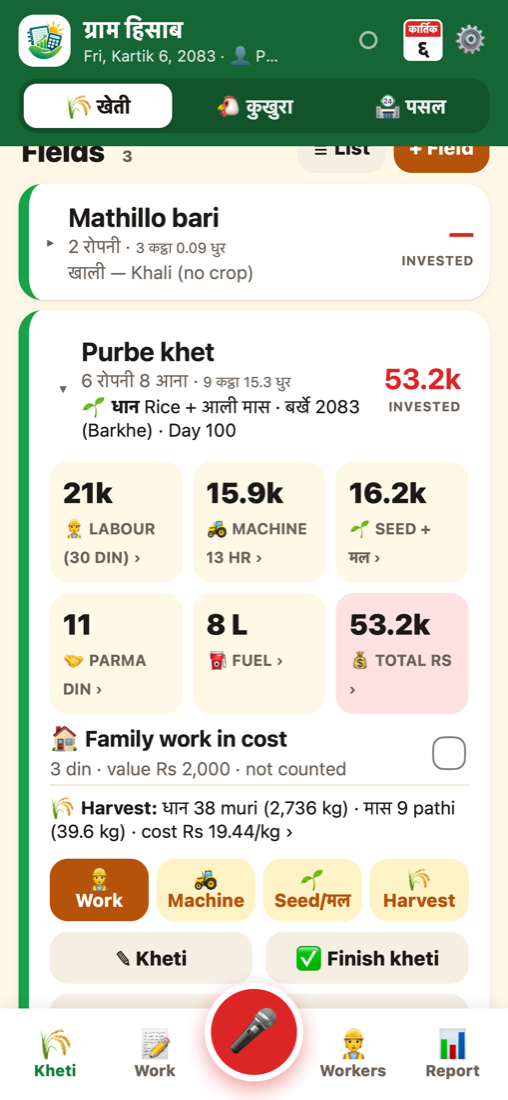
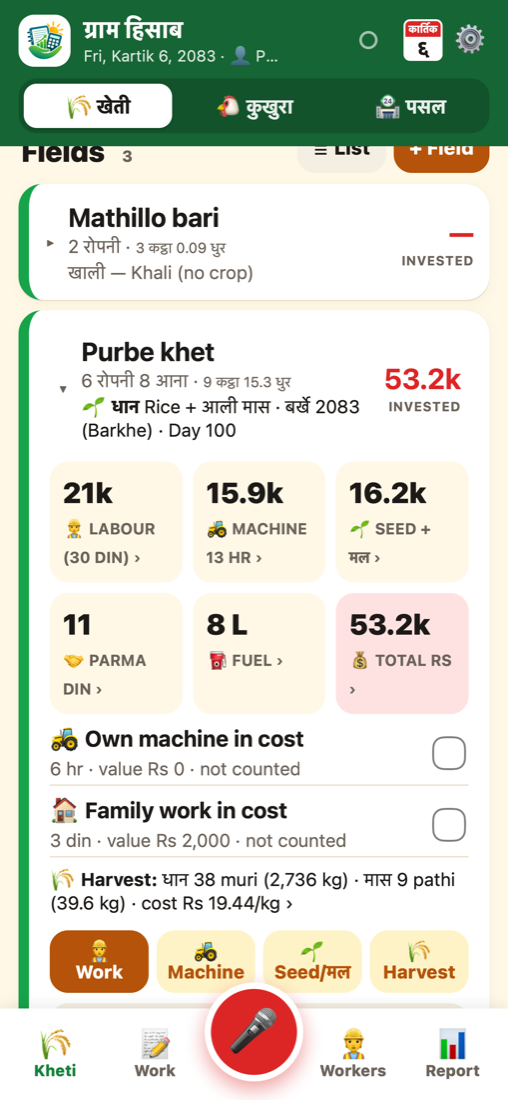
Own machines: rate per hour (remembered), value per use, per-kheti switch to count it in crop cost; sheet tabs too

Changed region(s): [[0.0886, 0.6491, 0.9449, 0.9273], [0.9154, 0.0309, 0.9449, 0.0618]]

diff --git a/assets/kheti-ui.js b/assets/kheti-ui.js
@@ -45,8 +45,10 @@ function kToggle(id) {
 }
 // 🏠 switch: count the household's own work (at normal rates) in this crop's cost, or not
 function famToggleHtml(k) {
-  if (!workers().some(w => w.own) && !k.family) return '';
-  return `<label class="switch kfam" style="padding:8px 0 2px"><span><b>🏠 Family work in cost</b><br><span class="small muted">${nfmt(k.familyFull + k.familyHalf * 0.5)} din · value ${money(k.family)} · ${k.includeFamily ? 'counted in total' : 'not counted'}</span></span>
+  const mach = k.ownMachine || k.ownMachineHours ? `<label class="switch kfam" style="padding:8px 0 2px"><span><b>🚜 Own machine in cost</b><br><span class="small muted">${nfmt(k.ownMachineHours)} hr · value ${money(k.ownMachine)} · ${k.includeOwnMachine ? 'counted in total' : 'not counted'}</span></span>
+    <input type="checkbox" data-act="kMachToggle" data-id="${k.kheti.id}" ${k.includeOwnMachine ? 'checked' : ''}></label>` : '';
+  if (!workers().some(w => w.own) && !k.family) return mach;
+  return mach + `<label class="switch kfam" style="padding:8px 0 2px"><span><b>🏠 Family work in cost</b><br><span class="small muted">${nfmt(k.familyFull + k.familyHalf * 0.5)} din · value ${money(k.family)} · ${k.includeFamily ? 'counted in total' : 'not counted'}</span></span>
     <input type="checkbox" data-act="kFamToggle" data-id="${k.kheti.id}" ${k.includeFamily ? 'checked' : ''}></label>`;
 }
 function fieldCard(f, S) {
@@ -68,7 +70,7 @@ function fieldCard(f, S) {
         ${st('input', shortMoney(k.seed + k.fert), '🌱 Seed + मल')}
         ${st('parma', nfmt(k.parmaDays), '🤝 Parma din')}
         ${st('fuel', nfmt(round(k.petrol + k.diesel, 1)) + ' L', '⛽ Fuel')}
-        ${st('all', shortMoney(k.total), k.includeFamily && k.family ? '💰 Total + 🏠' : '💰 Total Rs', 'var(--red-l)')}
+        ${st('all', shortMoney(k.total), '💰 Total' + (k.includeFamily && k.family ? ' + 🏠' : '') + (k.includeOwnMachine && k.ownMachine ? ' + 🚜' : '') + (k.total === k.cash ? ' Rs' : ''), 'var(--red-l)')}
       </div>
       ${famToggleHtml(k)}
       ${harvestText(k) ? `<div class="small" style="margin-top:8px" data-act="kEntries" data-id="${cur.id}" data-v="harvest">🌾 <b>Harvest:</b> ${esc(harvestText(k))}${k.costPerKg ? ` · cost ${money(k.costPerKg)}/kg` : ''} ›</div>` : ''}
@@ -253,6 +255,7 @@ function saveWorkForm() {
 
 function openMachineForm(rec, khetiId) {
   kDraft = Object.assign({ kind: 'machine', khetiId: khetiId || (activeKhetis()[0] || {}).id || '', date: today(), type: 'hiredTractor', hours: '', ratePerHour: '', hireAmount: '', fuel: '', litres: '', fuelCost: '', note: '' }, rec || {});
+  if (!(MACHINES[kDraft.type] || {}).hired && !kDraft.ratePerHour) kDraft.ratePerHour = ownMachineRate(kDraft.type) || '';
   renderMachineForm();
 }
 function renderMachineForm() {
@@ -261,14 +264,20 @@ function renderMachineForm() {
     ${khetiChips(d.khetiId)}
     <div class="field"><label>Date (नेपाली)</label>${bsDateHtml('kmach', d.date)}</div>
     <div class="field"><label>Machine</label><div class="chips">${Object.keys(MACHINES).map(k => kChip('kfMach', k, d.type === k, MACHINES[k].icon + ' ' + MACHINES[k].en)).join('')}</div></div>
-    <div class="grid2">${kNum('hours', 'Hours', d.hours)}${m.hired ? kNum('ratePerHour', 'Rate per hour Rs', d.ratePerHour) : '<div></div>'}</div>
-    ${m.hired ? kNum('hireAmount', 'Hire paid Rs (auto = hours × rate)', d.hireAmount, 'auto') : ''}
+    <div class="grid2">${kNum('hours', 'Hours', d.hours)}${kNum('ratePerHour', m.hired ? 'Rate per hour Rs' : 'Own machine rate / hour Rs', d.ratePerHour)}</div>
+    ${m.hired ? kNum('hireAmount', 'Hire paid Rs (auto = hours × rate)', d.hireAmount, 'auto')
+      : `<div class="hint" id="kmOwnHint" style="margin:-6px 0 12px">${esc(ownMachineHint())}</div>`}
     <div class="field"><label>Fuel</label><div class="chips">${kChip('kfFuel', '', !d.fuel, 'None')}${kChip('kfFuel', 'petrol', d.fuel === 'petrol', '⛽ Petrol')}${kChip('kfFuel', 'diesel', d.fuel === 'diesel', '🛢 Diesel')}</div></div>
     ${d.fuel ? `<div class="grid2">${kNum('litres', 'Litres', d.litres)}${kNum('fuelCost', 'Fuel cost Rs', d.fuelCost)}</div>` : ''}
     <div class="field"><label>Note <span class="muted">(optional)</span></label><input data-k="note" value="${esc(d.note || '')}" placeholder="—" autocomplete="off"></div>
     <button class="btn big green" data-act="kSaveMachine">✔ Save</button>
     ${d.id ? `<div style="height:10px"></div><button class="btn big redl" data-act="deleteRec" data-id="${d.id}">🗑 Delete</button>${historyHtml(d.id)}` : ''}
   </div>`);
+}
+function ownMachineHint() {
+  const h = num(($('#kForm [data-k=hours]') || {}).value != null ? $('#kForm [data-k=hours]').value : kDraft.hours) || 0;
+  const r = num(($('#kForm [data-k=ratePerHour]') || {}).value != null ? $('#kForm [data-k=ratePerHour]').value : kDraft.ratePerHour) || 0;
+  return `Own machine value = hours × rate${h && r ? ' = ' + money(h * r) : ''}. It counts in the crop's cost only when the crop's 🚜 Own machine switch is on. Fuel is always counted.`;
 }
 function saveMachineForm() {
   kRead();
@@ -277,11 +286,12 @@ function saveMachineForm() {
   const hours = num(d.hours) || 0, rate = num(d.ratePerHour) || 0;
   const hire = m.hired ? (num(d.hireAmount) != null ? num(d.hireAmount) : round(hours * rate, 2)) : 0;
   const rec = { kind: 'machine', khetiId: k.id, fieldId: k.fieldId, date: d.date || today(), type: d.type, hours, ratePerHour: rate, hireAmount: hire,
-    fuel: d.fuel || '', litres: d.fuel ? num(d.litres) || 0 : 0, fuelCost: d.fuel ? num(d.fuelCost) || 0 : 0, note: String(d.note || '').trim() };
+    ownValue: m.hired ? 0 : round(hours * rate, 2), fuel: d.fuel || '', litres: d.fuel ? num(d.litres) || 0 : 0, fuelCost: d.fuel ? num(d.fuelCost) || 0 : 0, note: String(d.note || '').trim() };
+  if (!m.hired && rate && rate !== ownMachineRate(d.type)) setOwnMachineRate(d.type, rate);   // remembered for next time
   if (!hours && !hire && !rec.litres && !rec.fuelCost) { toast('Type hours, hire or fuel'); return; }
   if (d.id) { rec.id = d.id; rec.createdAt = d.createdAt; }
   put(rec); closeSheet(); render();
-  toast(`Saved ✓ ${m.en} ${hours ? nfmt(hours) + ' hr' : ''} · ${money(hire + rec.fuelCost)}`, d.id ? null : rec.id);
+  toast(`Saved ✓ ${m.en} ${hours ? nfmt(hours) + ' hr' : ''} · ${money(hire + rec.fuelCost)}${rec.ownValue ? ' · own value ' + money(rec.ownValue) : ''}`, d.id ? null : rec.id);
 }
 
 function openInputForm(rec, khetiId) {
@@ -489,7 +499,7 @@ function kItemHtml(r) {
   let ic = '•', t = '', s = '', amt = '';
   const kt = r.khetiId && khetiById(r.khetiId) ? khetiTitle(khetiById(r.khetiId)) : '';
   if (r.kind === 'fwork') { ic = '👷'; t = `${workById(r.workType).ne} · ${(r.workers || []).length + (r.extraFull || 0) + (r.extraHalf || 0)} khetala${(r.parma || []).length ? ' + parma' : ''}`; s = kt; amt = money(fworkAmount(r)); }
-  else if (r.kind === 'machine') { const m = MACHINES[r.type] || {}; ic = m.icon || '🚜'; t = `${m.en || r.type}${r.hours ? ' · ' + nfmt(r.hours) + ' hr' : ''}${r.litres ? ' · ' + nfmt(r.litres) + ' L ' + r.fuel : ''}`; s = kt; amt = money((r.hireAmount || 0) + (r.fuelCost || 0)); }
+  else if (r.kind === 'machine') { const m = MACHINES[r.type] || {}; ic = m.icon || '🚜'; t = `${m.en || r.type}${r.hours ? ' · ' + nfmt(r.hours) + ' hr' : ''}${r.litres ? ' · ' + nfmt(r.litres) + ' L ' + r.fuel : ''}`; s = kt + (machineOwnValue(r) ? ' · own value ' + money(machineOwnValue(r)) : ''); amt = money((r.hireAmount || 0) + (r.fuelCost || 0)); }
   else if (r.kind === 'finput') { ic = r.type === 'seed' ? '🌱' : '🧪'; t = `${r.item}${r.qty ? ' · ' + nfmt(r.qty) + ' ' + r.unit : ''}`; s = kt; amt = money(r.cost); }
   else if (r.kind === 'harvest') { ic = '🌾'; t = `${cropById(r.crop).ne} ${nfmt(r.qty)} ${r.unit} (≈ ${nfmt(round(r.kg || harvestKg(r)))} kg)`; s = kt; }
   else if (r.kind === 'fpay') { ic = '💵'; t = `Paid ${workerLabel(workerById(r.workerId))}`; amt = money(r.amount); }
@@ -509,12 +519,13 @@ function openKhetiEntries(khetiId, key) {
     <div class="summary small">
       <div class="line"><span>👷 Labour (${nfmt(S.labourFull)} full, ${nfmt(S.labourHalf)} half)</span><b>${money(S.labour)}</b></div>
       <div class="line"><span>🤝 Parma</span><b>${nfmt(S.parmaDays)} din</b></div>
-      <div class="line"><span>🚜 Machine hire (${nfmt(S.machineHours)} hr)</span><b>${money(S.machineHire)}</b></div>
+      <div class="line"><span>🚜 Machine hire (${nfmt(S.machineHours - S.ownMachineHours)} hr)</span><b>${money(S.machineHire)}</b></div>
       <div class="line"><span>⛽ Fuel (petrol ${nfmt(S.petrol)} L · diesel ${nfmt(S.diesel)} L)</span><b>${money(S.fuelCost)}</b></div>
       <div class="line"><span>🌱 Seed</span><b>${money(S.seed)}</b></div>
       <div class="line"><span>🧪 Fertilizer</span><b>${money(S.fert)}</b></div>
       ${S.family || workers().some(w => w.own) ? `<div class="line"><span>🏠 Family work (${nfmt(S.familyFull)} full, ${nfmt(S.familyHalf)} half)${S.includeFamily ? '' : ' <span class="muted">— not counted</span>'}</span><b style="${S.includeFamily ? '' : 'color:var(--muted);text-decoration:line-through'}">${money(S.family)}</b></div>` : ''}
-      <div class="line"><span><b>Total investment</b>${S.includeFamily && S.family ? '<br><span class="muted">money spent ' + money(S.cash) + ' + family work ' + money(S.family) + '</span>' : ''}</span><b style="font-size:20px;color:var(--red)">${money(S.total)}</b></div>
+      ${S.ownMachine || S.ownMachineHours ? `<div class="line"><span>🚜 Own machine (${nfmt(S.ownMachineHours)} hr)${S.includeOwnMachine ? '' : ' <span class="muted">— not counted</span>'}</span><b style="${S.includeOwnMachine ? '' : 'color:var(--muted);text-decoration:line-through'}">${money(S.ownMachine)}</b></div>` : ''}
+      <div class="line"><span><b>Total investment</b>${S.total !== S.cash ? '<br><span class="muted">money spent ' + money(S.cash) + (S.includeFamily && S.family ? ' + family work ' + money(S.family) : '') + (S.includeOwnMachine && S.ownMachine ? ' + own machine ' + money(S.ownMachine) : '') + '</span>' : ''}</span><b style="font-size:20px;color:var(--red)">${money(S.total)}</b></div>
       ${harvestText(S) ? `<div class="line"><span style="white-space:nowrap">🌾 Harvest</span><b style="text-align:right">${esc(harvestText(S))}</b></div>` : ''}
       ${S.costPerKg ? `<div class="line"><span>Cost per kg ${esc(cropById(mainCrop(k)).ne)}</span><b>${money(S.costPerKg)}</b></div>` : ''}</div>
     ${famToggleHtml(S)}
@@ -537,15 +548,17 @@ function renderKReports() {
       <div class="grid3" style="margin-top:10px"><div class="stat"><b>${shortMoney(sum('labour'))}</b><span>Labour</span></div><div class="stat"><b>${shortMoney(sum('machineHire') + sum('fuelCost'))}</b><span>Machine+fuel</span></div><div class="stat"><b>${shortMoney(sum('seed') + sum('fert'))}</b><span>Seed+मल</span></div></div></div>
     <div class="summary small">
       <div class="line"><span>Khetala days</span><b>${nfmt(sum('labourFull'))} full · ${nfmt(sum('labourHalf'))} half</b></div>
+      ${sum('ownMachine') ? `<div class="line"><span>🚜 Own machine value</span><b>${nfmt(sum('ownMachineHours'))} hr · ${money(sum('ownMachine'))}</b></div>` : ''}
       ${sum('family') ? `<div class="line"><span>🏠 Family work</span><b>${nfmt(sum('familyFull'))} full · ${nfmt(sum('familyHalf'))} half · ${money(sum('family'))}</b></div>
-      <div class="line"><span>Money spent (without family work)</span><b>${money(sum('cash'))}</b></div>` : ''}
+` : ''}
+      ${sum('family') || sum('ownMachine') ? `<div class="line"><span>Money actually spent</span><b>${money(sum('cash'))}</b></div>` : ''}
       <div class="line"><span>Parma days</span><b>${nfmt(sum('parmaDays'))}</b></div>
       <div class="line"><span>Machine hours</span><b>${nfmt(sum('machineHours'))} hr</b></div>
       <div class="line"><span>Fuel</span><b>Petrol ${nfmt(round(sum('petrol'), 1))} L · Diesel ${nfmt(round(sum('diesel'), 1))} L</b></div></div>
     <h3>By kheti</h3>
     ${ks.length ? ks.map(k => `<button class="item" data-act="kOpenKheti" data-id="${k.kheti.id}" style="align-items:flex-start">
       <div class="ic" style="background:var(--green-l)">${k.kheti.status === 'done' ? '✅' : '🌱'}</div>
-      <div class="mid"><div class="t">${esc(khetiTitle(k.kheti))}</div><div class="s">${esc(seasonLabel(k.kheti.season))} · labour ${money(k.labour)} · machine ${money(k.machineHire + k.fuelCost)} · seed+मल ${money(k.seed + k.fert)}${k.family ? ` · 🏠 ${money(k.family)}${k.includeFamily ? '' : ' (not counted)'}` : ''}<br>${esc(harvestText(k) || 'no harvest yet')}${k.costPerKg ? ' · ' + money(k.costPerKg) + '/kg' : ''}</div></div>
+      <div class="mid"><div class="t">${esc(khetiTitle(k.kheti))}</div><div class="s">${esc(seasonLabel(k.kheti.season))} · labour ${money(k.labour)} · machine ${money(k.machineHire + k.fuelCost)} · seed+मल ${money(k.seed + k.fert)}${k.family ? ` · 🏠 ${money(k.family)}${k.includeFamily ? '' : ' (not counted)'}` : ''}${k.ownMachine ? ` · 🚜 own ${money(k.ownMachine)}${k.includeOwnMachine ? '' : ' (not counted)'}` : ''}<br>${esc(harvestText(k) || 'no harvest yet')}${k.costPerKg ? ' · ' + money(k.costPerKg) + '/kg' : ''}</div></div>
       <div class="amt" style="color:var(--red)">${money(k.total)}</div></button>`).join('') : '<p class="muted">No kheti yet.</p>'}
     <div class="grid2" style="margin-top:10px"><button class="btn" data-act="exportCsv" data-v="kheti">📄 Kheti (CSV)</button><button class="btn" data-act="exportCsv" data-v="khetiwork">📄 Work log (CSV)</button></div>`;
 }
@@ -661,8 +674,8 @@ function khetiDeleteBlock(r) {
 function khetiCsv(which) {
   const S = computeKheti();
   if (which === 'kheti') {
-    const rows = [['Field', 'Area (m²)', 'Area', 'Main crop', 'Aali crops', 'Variety', 'Season', 'Planted (BS)', 'Status', 'Labour (paid)', 'Full days', 'Half days', 'Family work value', 'Family work counted', 'Parma days', 'Machine hire', 'Machine hours', 'Fuel cost', 'Petrol L', 'Diesel L', 'Seed', 'Fertilizer', 'Total cost', 'Harvest', 'Main crop kg', 'Cost per kg']];
-    Object.values(S.K).forEach(k => { const x = k.kheti, f = fieldById(x.fieldId) || {}; rows.push([f.name || '', round(f.areaM2 || 0), fmtArea(f.areaM2 || 0, landSystem(), 'en'), cropById(mainCrop(x)).en, (x.crops || []).filter(c => c.role === 'aali').map(c => cropById(c.crop).en).join(' + '), x.variety || '', x.season || '', bsIso(x.plantDate), x.status || '', round(k.labour), k.labourFull, k.labourHalf, round(k.family), k.includeFamily ? 'yes' : 'no', k.parmaDays, round(k.machineHire), k.machineHours, round(k.fuelCost), k.petrol, k.diesel, round(k.seed), round(k.fert), round(k.total), harvestText(k), round(k.mainKg), round(k.costPerKg, 2)]); });
+    const rows = [['Field', 'Area (m²)', 'Area', 'Main crop', 'Aali crops', 'Variety', 'Season', 'Planted (BS)', 'Status', 'Labour (paid)', 'Full days', 'Half days', 'Family work value', 'Family work counted', 'Parma days', 'Machine hire', 'Machine hours', 'Own machine value', 'Own machine counted', 'Fuel cost', 'Petrol L', 'Diesel L', 'Seed', 'Fertilizer', 'Total cost', 'Harvest', 'Main crop kg', 'Cost per kg']];
+    Object.values(S.K).forEach(k => { const x = k.kheti, f = fieldById(x.fieldId) || {}; rows.push([f.name || '', round(f.areaM2 || 0), fmtArea(f.areaM2 || 0, landSystem(), 'en'), cropById(mainCrop(x)).en, (x.crops || []).filter(c => c.role === 'aali').map(c => cropById(c.crop).en).join(' + '), x.variety || '', x.season || '', bsIso(x.plantDate), x.status || '', round(k.labour), k.labourFull, k.labourHalf, round(k.family), k.includeFamily ? 'yes' : 'no', k.parmaDays, round(k.machineHire), k.machineHours, round(k.ownMachine), k.includeOwnMachine ? 'yes' : 'no', round(k.fuelCost), k.petrol, k.diesel, round(k.seed), round(k.fert), round(k.total), harvestText(k), round(k.mainKg), round(k.costPerKg, 2)]); });
     return { rows, name: 'kheti-' + bsIso(today()) + '.csv' };
   }
   const rows = [['Date (BS)', 'Date (AD)', 'Kheti', 'Entry', 'Details', 'Qty', 'Unit', 'Amount', 'Note', 'By', 'Phone']];
@@ -750,7 +763,7 @@ function khetiClick(act, b) {
       renderWorkForm(); }); break;
     case 'kfAddParma': rr(() => { (kDraft.parma = kDraft.parma || []).push({ family: '', full: '', half: '' }); renderWorkForm(); }); break;
     case 'kSaveWork': saveWorkForm(); break;
-    case 'kfMach': rr(() => { kDraft.type = v; renderMachineForm(); }); break;
+    case 'kfMach': rr(() => { kDraft.type = v; kDraft.ratePerHour = MACHINES[v].hired ? '' : (ownMachineRate(v) || ''); renderMachineForm(); }); break;
     case 'kfFuel': rr(() => { kDraft.fuel = v; renderMachineForm(); }); break;
     case 'kSaveMachine': saveMachineForm(); break;
     case 'kfInType': rr(() => { kDraft.type = v; kDraft.item = v === 'fert' ? 'Urea' : ''; kDraft.unit = INPUT_UNITS[v][0]; renderInputForm(); }); break;
@@ -762,6 +775,8 @@ function khetiClick(act, b) {
     case 'kSaveHarvest': saveHarvestForm(); break;
     case 'kSaveParmaOut': saveParmaOutForm(); break;
     case 'kAddWorker': if (v === 'work') { rr(() => {}); kWorkStash = kDraft; } else kWorkStash = null; openWorkerForm(null, v); break;
+    case 'kMachToggle': { const k = khetiById(id); put(Object.assign({}, k, { includeOwnMachine: !k.includeOwnMachine })); render(); if ($('#sheet .kfam')) openKhetiEntries(id, 'all');
+      toast(!k.includeOwnMachine ? '🚜 Own machine now counted in this crop\'s cost' : '🚜 Own machine left out of this crop\'s cost'); break; }
     case 'kFamToggle': { const k = khetiById(id); put(Object.assign({}, k, { includeFamily: !k.includeFamily })); render(); if ($('#sheet .kfam')) openKhetiEntries(id, 'all');
       toast(!k.includeFamily ? '🏠 Family work now counted in this crop\'s cost' : '🏠 Family work left out of this crop\'s cost'); break; }
     case 'kEditWorker': openWorkerForm(Object.assign({}, workerById(id))); break;
@@ -802,6 +817,7 @@ function khetiClick(act, b) {
   return true;
 }
 function khetiInput(el) {
+  if ($('#kmOwnHint') && (el.dataset.k === 'hours' || el.dataset.k === 'ratePerHour')) $('#kmOwnHint').textContent = ownMachineHint();
   if ($('#kwTotal') && (el.dataset.k || el.dataset.kp)) updWorkTotal();
   if (el.dataset.kq) { const h = $('#kqHint'); if (h) h.textContent = quickHint(); }
   if (el.dataset.ka !== undefined && kDraft && kDraft.kind === 'field') {

diff --git a/assets/kheti.js b/assets/kheti.js
@@ -49,6 +49,13 @@ function workTypes() { const w = getSet('workTypes'); return Array.isArray(w) &&
 function workById(id) { return workTypes().find(w => w.id === id) || { id, en: id, ne: id }; }
 function wageRate(wt, shift) { const r = (getSet('wageRates') || {})[wt] || {}; return Number(shift === 'half' ? r.half : r.full) || 0; }
 function setWageRate(wt, full, half) { const r = Object.assign({}, getSet('wageRates') || {}); r[wt] = { full: Number(full) || 0, half: Number(half) || 0 }; setSet('wageRates', r); }
+// own machines (not hired): a rate per hour gives the value of using them; counted in a crop's cost only if its 🚜 switch is on
+function ownMachineRate(type) { return Number((getSet('machineRates') || {})[type]) || 0; }
+function setOwnMachineRate(type, rate) { const r = Object.assign({}, getSet('machineRates') || {}); r[type] = Number(rate) || 0; setSet('machineRates', r); }
+function machineOwnValue(r) {
+  if ((MACHINES[r.type] || {}).hired) return 0;
+  return r.ownValue != null ? Number(r.ownValue) || 0 : (Number(r.hours) || 0) * (Number(r.ratePerHour) || 0);
+}
 function pathiKg(crop) { const m = getSet('pathiKg') || {}; return Number(m[crop]) || PATHI_KG_DEFAULT[crop] || 4; }
 function boraKg(crop) { const m = getSet('boraKg') || {}; return Number(m[crop]) || 50; }
 function harvestKg(r) {
@@ -121,7 +128,7 @@ const shiftDays = s => s === 'half' ? 0.5 : 1;
 // ---------- all Kheti numbers in one pass ----------
 function computeKheti() {
   const K = {}, F = {}, W = {}, P = {};
-  const blank = () => ({ labour: 0, labourFull: 0, labourHalf: 0, family: 0, familyFull: 0, familyHalf: 0, parmaDays: 0, machineHire: 0, machineHours: 0, fuelCost: 0, petrol: 0, diesel: 0,
+  const blank = () => ({ labour: 0, labourFull: 0, labourHalf: 0, ownMachine: 0, ownMachineHours: 0, family: 0, familyFull: 0, familyHalf: 0, parmaDays: 0, machineHire: 0, machineHours: 0, fuelCost: 0, petrol: 0, diesel: 0,
     seed: 0, fert: 0, total: 0, harvestKg: {}, harvestUnits: {}, entries: 0, lastDate: '' });
   khetis().forEach(k => { K[k.id] = Object.assign(blank(), { kheti: k }); });
   fields().forEach(f => { F[f.id] = { field: f, lifetime: 0, khetis: 0 }; });
@@ -153,6 +160,7 @@ function computeKheti() {
       if (r.family) fam(r.family).went += (Number(r.full) || 0) + (Number(r.half) || 0) * 0.5;
     } else if (r.kind === 'machine' && k) {
       k.machineHire += Number(r.hireAmount) || 0; k.machineHours += Number(r.hours) || 0; k.fuelCost += Number(r.fuelCost) || 0;
+      if (!(MACHINES[r.type] || {}).hired) { k.ownMachine += machineOwnValue(r); k.ownMachineHours += Number(r.hours) || 0; }
       if (r.fuel === 'petrol') k.petrol += Number(r.litres) || 0; else if (r.fuel === 'diesel') k.diesel += Number(r.litres) || 0;
       k.entries++; if (r.date > k.lastDate) k.lastDate = r.date;
     } else if (r.kind === 'finput' && k) {
@@ -169,7 +177,8 @@ function computeKheti() {
   Object.values(K).forEach(k => {
     k.cash = k.labour + k.machineHire + k.fuelCost + k.seed + k.fert;      // money actually spent
     k.includeFamily = !!k.kheti.includeFamily;                           // the per-kheti toggle
-    k.total = k.cash + (k.includeFamily ? k.family : 0);
+    k.includeOwnMachine = !!k.kheti.includeOwnMachine;                   // the 🚜 switch
+    k.total = k.cash + (k.includeFamily ? k.family : 0) + (k.includeOwnMachine ? k.ownMachine : 0);
     const main = mainCrop(k.kheti);
     k.mainKg = k.harvestKg[main] || 0;
     k.costPerKg = k.mainKg ? k.total / k.mainKg : 0;

diff --git a/assets/kheti-voice.js b/assets/kheti-voice.js
@@ -144,7 +144,7 @@ function parseKheti(text) {
     const fuelMoney = rest.length ? rest.shift() : null;
     Object.assign(p, { intent: 'kMachine', hours: hrs ? parseFloat(hrs[1]) : 0, fuel: lit || fuel ? (fuel || 'diesel') : '', litres: lit ? parseFloat(lit[1]) : 0 });
     if (MACHINES[p.type].hired) { p.hireAmount = money || 0; p.fuelCost = fuelMoney || 0; }
-    else { p.hireAmount = 0; p.fuelCost = money || 0; }
+    else { p.hireAmount = 0; p.fuelCost = money || 0; p.ratePerHour = ownMachineRate(p.type); }
     return p;
   }
   // --- harvest: "dhaan 20 muri", "harvest 5 quintal gahun"
@@ -244,10 +244,12 @@ function flowKheti(p, v) {
       break;
     case 'kMachine': {
       const m = MACHINES[p.type];
-      rec = Object.assign({ kind: 'machine', type: p.type, hours: p.hours || 0, ratePerHour: p.hours && p.hireAmount ? round(p.hireAmount / p.hours, 2) : 0, hireAmount: p.hireAmount || 0, fuel: p.fuel, litres: p.litres || 0, fuelCost: p.fuelCost || 0, note: '' }, base);
+      const rph = m.hired ? (p.hours && p.hireAmount ? round(p.hireAmount / p.hours, 2) : 0) : (p.ratePerHour || 0);
+      rec = Object.assign({ kind: 'machine', type: p.type, hours: p.hours || 0, ratePerHour: rph, hireAmount: p.hireAmount || 0, ownValue: m.hired ? 0 : round((p.hours || 0) * rph, 2), fuel: p.fuel, litres: p.litres || 0, fuelCost: p.fuelCost || 0, note: '' }, base);
       lines = [['🌾 Kheti', khetiTitle(k)], [m.icon + ' Machine', m.en], ['Hours', nfmt(rec.hours)]];
       if (m.hired) lines.push(['Hire', money(rec.hireAmount)]);
       if (rec.fuel) lines.push(['⛽ ' + rec.fuel, `${nfmt(rec.litres)} L · ${money(rec.fuelCost)}`]);
+      if (!m.hired) lines.push(['🚜 Own machine value', rph ? `${money(rec.ownValue)} (${money(rph)}/hr)` : 'set the rate in the form (✎ Edit)']);
       speech = `${m.en}, ${nfmt(rec.hours)} hours, ${sayMoney(rec.hireAmount + rec.fuelCost)}. Save?`;
       editForm = () => openMachineForm(rec);
       break;

diff --git a/assets/core.js b/assets/core.js
@@ -2,7 +2,7 @@
 'use strict';
 
 const HAS_ANDROID = typeof window.Android !== 'undefined';
-const APP_VERSION = '2.6.1';
+const APP_VERSION = '2.7.0';
 
 // ---------- small utils ----------
 const $ = (sel, el) => (el || document).querySelector(sel);
